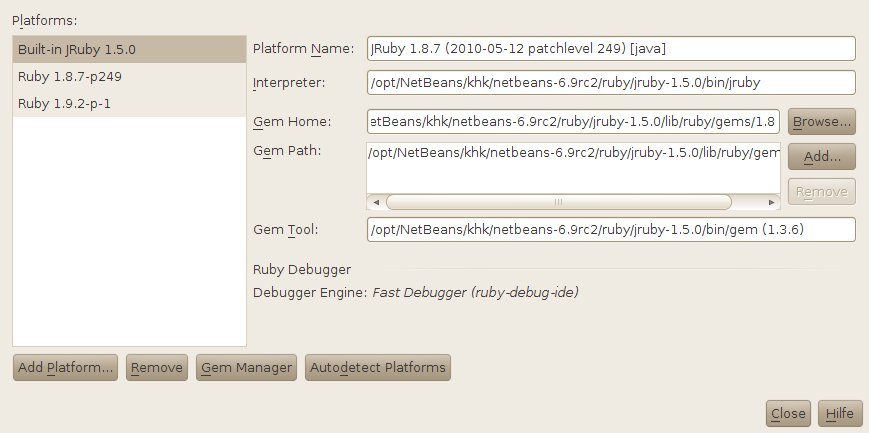
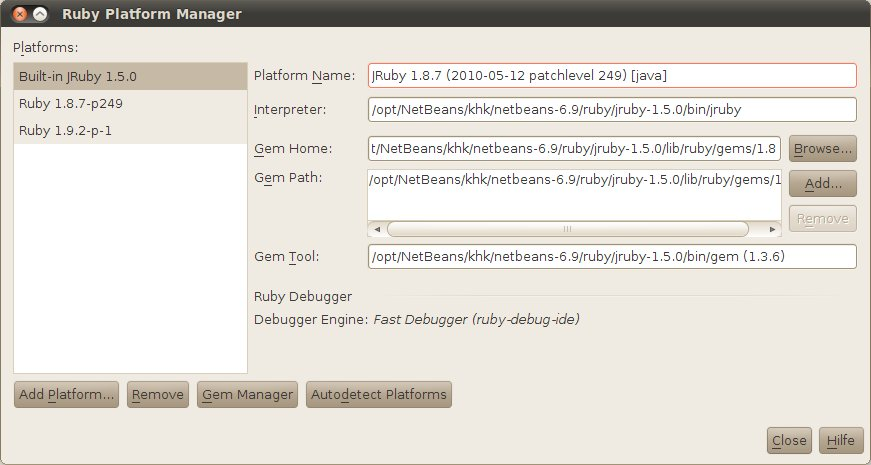
Veröffentlichung von NetBeans 6.9

Changed region(s): [[0.0, 0.0, 1.0, 1.0], [0.2796, 0.6005, 0.6835, 0.7206], [0.2796, 0.5104, 0.3728, 0.5704]]

diff --git a/netbeans.html b/netbeans.html
@@ -4,7 +4,7 @@
 <head>
 <meta http-equiv="Content-Type" content="text/html; charset=UTF-8" />
 <meta name="generator" content="AsciiDoc 8.5.3" />
-<title>Installation in Ubuntu: Sun Java SDK 6, NetBeans 6.9 RC2</title>
+<title>Installation in Ubuntu: Sun Java SDK 6, NetBeans 6.9</title>
 <style type="text/css">
 /* Debug borders */
 p, li, dt, dd, div, pre, h1, h2, h3, h4, h5, h6 {
@@ -551,7 +551,7 @@ footnotes: function () {
 </head>
 <body>
 <div id="header">
-<h1>Installation in Ubuntu: Sun Java SDK 6, NetBeans 6.9 RC2</h1>
+<h1>Installation in Ubuntu: Sun Java SDK 6, NetBeans 6.9</h1>
 <span id="author">Karl-Heinz Köther</span><br />
 <span id="email"><tt>&lt;<a href="mailto:&#107;&#104;&#107;&#111;&#101;&#116;&#104;&#101;&#114;&#064;&#107;&#097;&#104;&#119;&#101;&#098;&#046;&#100;&#101;">&#107;&#104;&#107;&#111;&#101;&#116;&#104;&#101;&#114;&#064;&#107;&#097;&#104;&#119;&#101;&#098;&#046;&#100;&#101;</a>&gt;</tt></span><br />
 <div id="toc">
@@ -568,8 +568,8 @@ footnotes: function () {
 <h2 id="_abstract">Abstract</h2>
 <div class="sectionbody">
 <div class="paragraph"><p>Dieser Artikel ist eine Schritt-für-Schritt Anleitung zur Installation
-des <a href="http://java.sun.com/javase/downloads/index.jsp">Sun Java SDK 6 Update 20</a> und
-der <a href="http://www.netbeans.org/downloads/index.html">NetBeans IDE 6.9 RC2</a> unter GNU/Linux.</p></div>
+des <a href="http://java.sun.com/javase/downloads/index.jsp">Sun Java SDK 6</a> und
+der <a href="http://netbeans.org/downloads/index.html">NetBeans IDE 6.9</a> unter GNU/Linux.</p></div>
 <div class="paragraph"><p>Die NetBeans IDE bietet eine Unterstützung für verschiedene Programmiersprachen
 und -techniken. Wobei die Java-basierten Lösungen ausgezeichnet unterstützt werden.</p></div>
 <div class="paragraph"><p>Der Artikel ist in <a href="http://www.methods.co.nz/asciidoc/">ASCII DOC</a> erstellt worden.</p></div>
@@ -602,8 +602,8 @@ andere Distributionen übertragbar.</p></div>
 </li>
 <li>
 <p>
-<a href="http://www.netbeans.org/downloads/index.html">NetBeans 6.9 RC2</a><br />
-  netbeans-6.9rc2-ml-linux.sh (ca. 249 MB) (IDE-Sprache: Deutsch)
+<a href="http://netbeans.org/downloads/index.html">NetBeans 6.9</a><br />
+  netbeans-6.9-ml-linux.sh (ca. 250 MB) (IDE-Sprache: Deutsch)
 </p>
 </li>
 </ul></div>
@@ -619,7 +619,7 @@ Während anschließende Installation der NetBeans IDE für den Benutzer <em>bob<
 <div class="content">
 <pre><tt>$ ls -l
 -rw-r--r-- 1 bob bob  84796967 2010-06-15 18:58 jdk-6u20-linux-i586.bin
--rw-r--r-- 1 bob bob 260273152 2010-06-15 19:04 netbeans-6.9rc2-ml-linux.sh</tt></pre>
+-rw-r--r-- 1 khk khk 261880832 2010-06-20 09:52 netbeans-6.9-ml-linux.sh</tt></pre>
 </div></div>
 </td>
 </tr></table>
@@ -652,7 +652,7 @@ lrwxrwxrwx 1 root root     39 2010-06-15 19:36 libjavaplugin.so -&gt; /etc/alter
 </div></div>
 <div class="paragraph"><p>Browser&gt; about:plugins<br />
 Browser&gt; <a href="http://www.arndt-bruenner.de/mathe/java/koerper3d.htm">3D-Körper</a></p></div>
-<h3 id="_netbeans_ide_6_9_rc2">NetBeans IDE 6.9 RC2</h3><div style="clear:left"></div>
+<h3 id="_netbeans_ide_6_9">NetBeans IDE 6.9</h3><div style="clear:left"></div>
 <div class="paragraph"><p><strong>Step 1:</strong> Installation im Verzeichnis <em>/opt/NetBeans/bob</em> (mit Benutzer <em>bob</em>)</p></div>
 <div class="listingblock">
 <div class="content">
@@ -660,7 +660,7 @@ Browser&gt; <a href="http://www.arndt-bruenner.de/mathe/java/koerper3d.htm">3D-K
 $ sudo mkdir -p /opt/Tomcat/bob   &amp;&amp; chown bob.bob /opt/Tomcat/bob    (Optional)
 
 $ cd /opt/NetBeans/bob
-$ sh netbeans-6.9rc2-ml-linux.sh --javahome /opt/Java/jdk1.6.0_20/</tt></pre>
+$ sh netbeans-6.9-ml-linux.sh --javahome /opt/Java/jdk1.6.0_20/</tt></pre>
 </div></div>
 <div class="paragraph"><p>&nbsp;<br />
 &nbsp;<br />
@@ -741,7 +741,7 @@ Apache Tomcat 6.0.26                  (Optional)
 <div class="ulist"><div class="title">Installation</div><ul>
 <li>
 <p>
-/opt/NetBeans/bob/netbeans-6.9rc2
+/opt/NetBeans/bob/netbeans-6.9
 </p>
 </li>
 <li>
@@ -758,8 +758,17 @@ Apache Tomcat 6.0.26                  (Optional)
 <div class="ulist"><div class="title">Summary</div><ul>
 <li>
 <p>
-530.8 MB
+523.5 MB
 </p>
+<div class="olist arabic"><ol class="arabic">
+<li>
+<p>
+Installation abgeschlossen
+Zum Ende der Installation werden Sie gebeten <em>Anonyme Nutzungsdaten</em> freizugeben,
+als auch sich bei der Fa. SUN zu registrieren. Beides ist freiwillig.
+</p>
+</li>
+</ol></div>
 </li>
 </ul></div>
 <div class="paragraph"><p>&nbsp;<br />
@@ -769,17 +778,14 @@ Apache Tomcat 6.0.26                  (Optional)
 <div class="content">
 <pre><tt>$ cd
 $ ls -la .netbeans*
-.netbeans:
-insgesamt 16
-drwxr-xr-x  3 bob bob 4096 2010-06-15 20:09 .
-drwxr-xr-x 53 bob bob 4096 2010-06-15 20:08 ..
-drwxr-xr-x  4 bob bob 4096 2010-06-15 20:09 6.9rc2
+drwxr-xr-x  2 bob bob 4096 2010-06-20 11:03 .
+drwxr-xr-x 55 bob bob 4096 2010-06-20 10:38 ..
 -rw-r--r--  1 bob bob   36 2010-06-15 20:08 .superId
 
 .netbeans-registration:
 insgesamt 12
 drwxr-xr-x  3 bob bob 4096 2010-06-15 20:08 .
-drwxr-xr-x 53 bob bob 4096 2010-06-15 20:08 ..
+drwxr-xr-x 55 bob bob 4096 2010-06-20 10:38 ..
 drwxr-xr-x  2 bob bob 4096 2010-06-15 20:08 6.9</tt></pre>
 </div></div>
 <div class="admonitionblock">
@@ -790,7 +796,6 @@ drwxr-xr-x  2 bob bob 4096 2010-06-15 20:08 6.9</tt></pre>
 <td class="content">
 <div class="paragraph"><p>Mit der <em>superID</em> wird die Installation sowohl auf dem Rechner
 als auch für den SDN Account bei der Fa. SUN eindeutig benannt.</p></div>
-<div class="paragraph"><p>Keine Registrierung für RC2!</p></div>
 </td>
 </tr></table>
 </div>
@@ -799,7 +804,7 @@ als auch für den SDN Account bei der Fa. SUN eindeutig benannt.</p></div>
 <strong>Step 4:</strong> NetBeans IDE starten</p></div>
 <div class="listingblock">
 <div class="content">
-<pre><tt>$ /bin/sh "/opt/NetBeans/bob/netbeans-6.9rc2/bin/netbeans"</tt></pre>
+<pre><tt>$ /bin/sh "/opt/NetBeans/bob/netbeans-6.9/bin/netbeans"</tt></pre>
 </div></div>
 <img src="images/netbeans/netbeans_ide_01_start.jpg" border="1px"
  alt="NetBeans IDE: Startseite" title="NetBeans IDE: Startseite" />
@@ -860,7 +865,7 @@ JAVA_HOME=/opt/Java/jdk1.6.0_20
 JDK_HOME=/opt/Java/jdk1.6.0_20
 JRE_HOME=/opt/Java/jdk1.6.0_20
 
-JRUBY_HOME=/opt/NetBeans/bob/netbeans-6.9rc2/ruby/jruby-1.5.0/bin
+JRUBY_HOME=/opt/NetBeans/bob/netbeans-6.9/ruby/jruby-1.5.0/bin
 CATALINA_OPTS='-server -Xms512m -Xmx1024m -XX:PermSize=256m -XX:MaxPermSize=512m'
 
 PATH=$JAVA_BINDIR:$JRUBY_HOME/bin:$PATH
@@ -919,12 +924,19 @@ Anpassung an Ubuntu 10.04 (Lucid Lynx)<br />
 </p>
 </li>
 </ul></div>
+<div class="ulist"><div class="title">Version 1.0.1</div><ul>
+<li>
+<p>
+Veröffentlichung von NetBeans 6.9
+</p>
+</li>
+</ul></div>
 </div>
 </div>
 <div id="footnotes"><hr /></div>
 <div id="footer">
 <div id="footer-text">
-Last updated 2010-06-19 19:49:42 CEST
+Last updated 2010-06-20 11:13:28 CEST
 </div>
 </div>
 </body>
